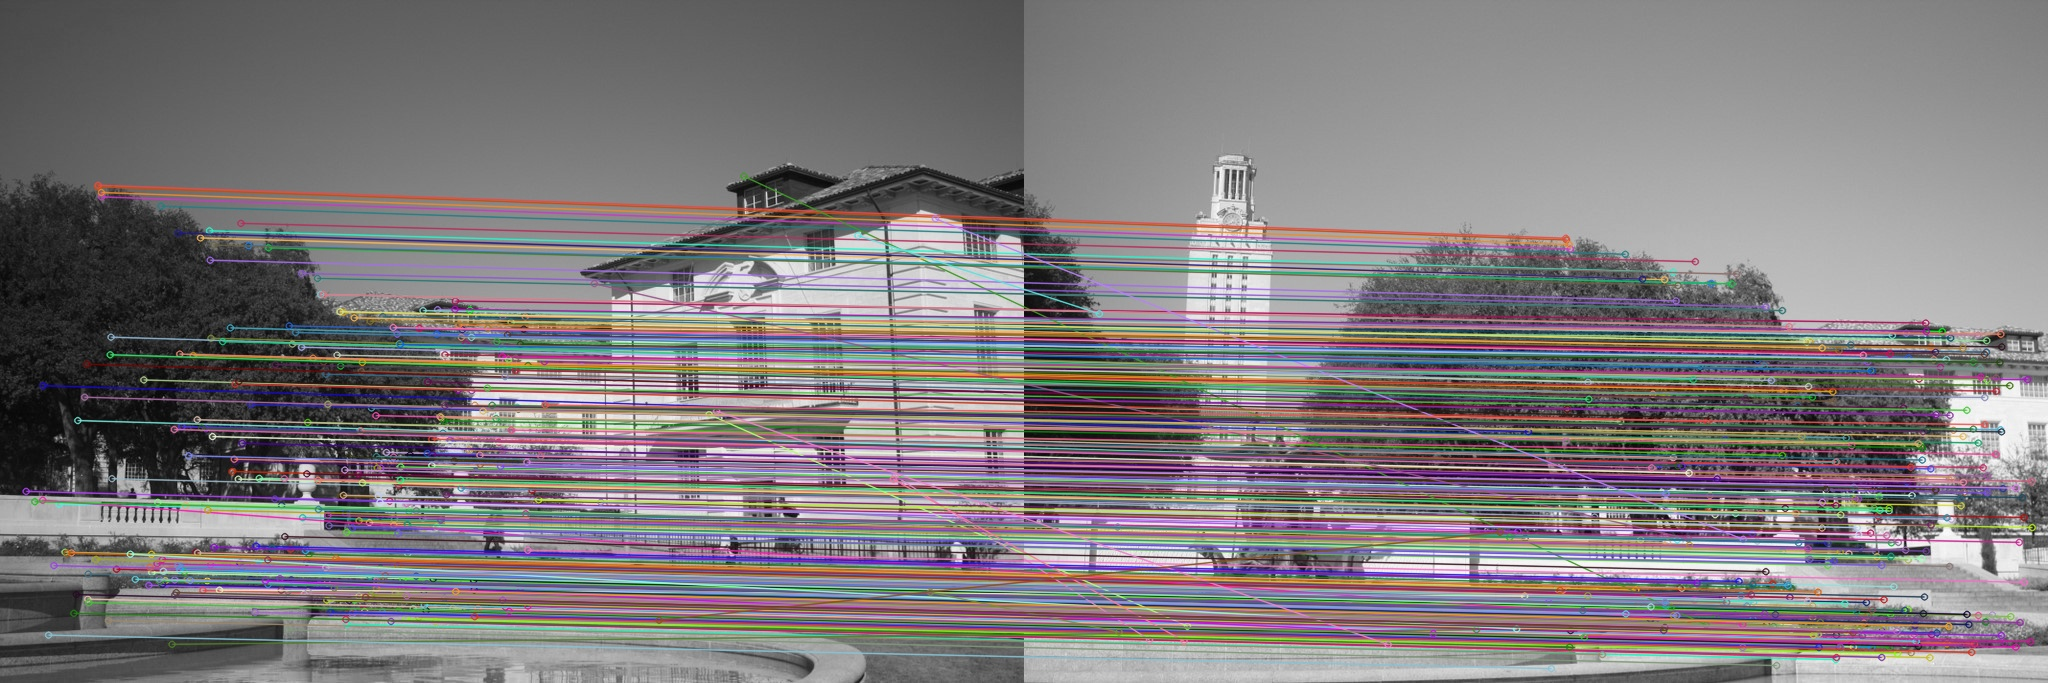
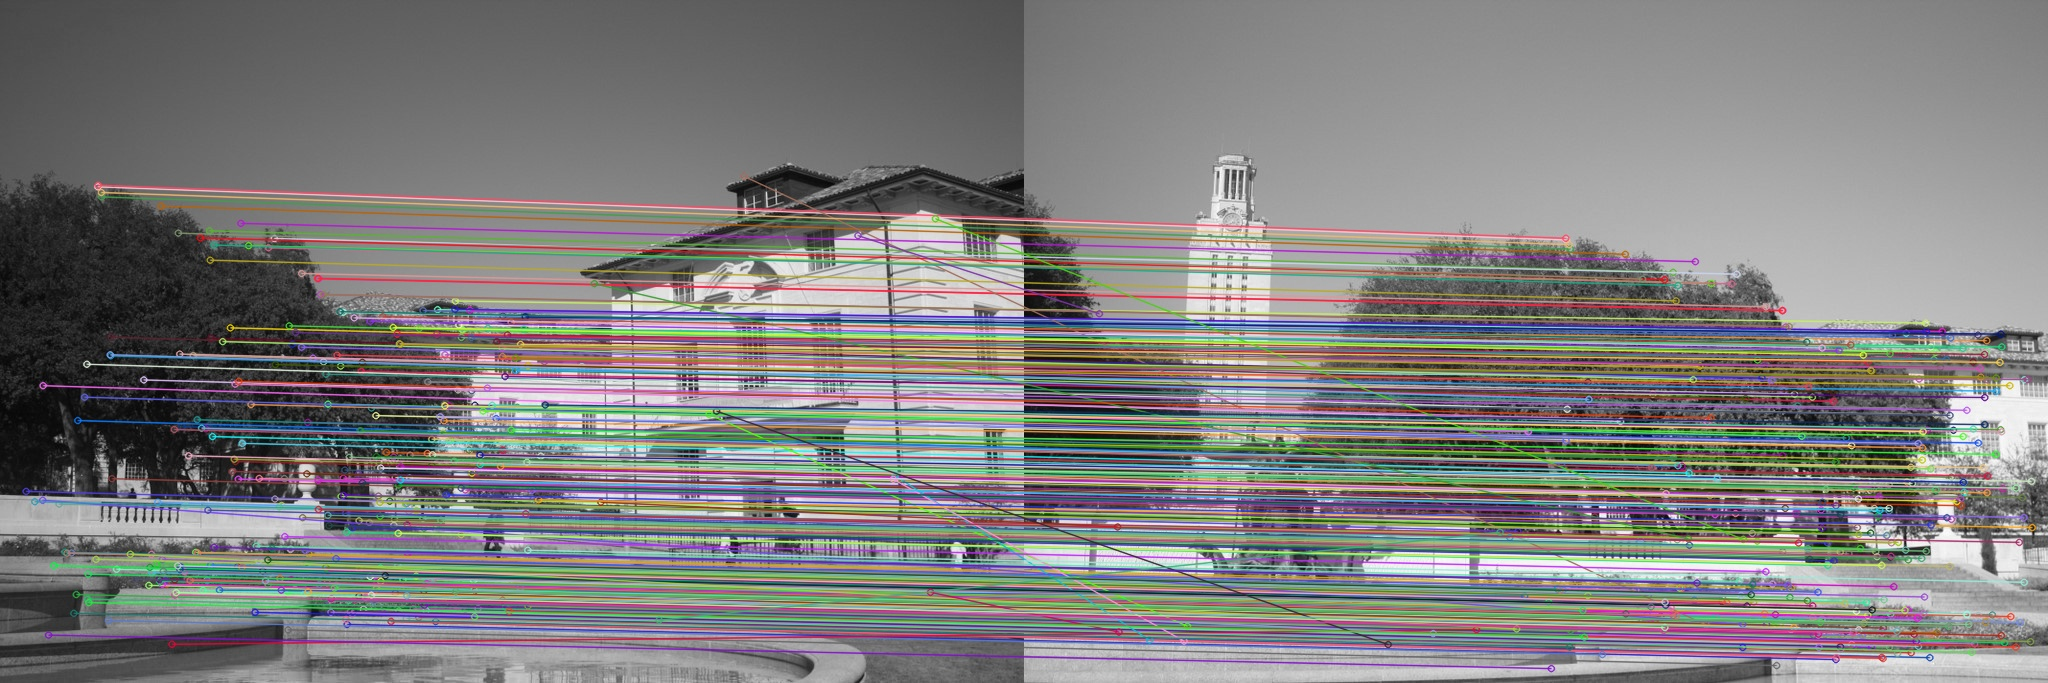
Item 6

diff --git a/trab-05/main.py b/trab-05/main.py
@@ -1,7 +1,7 @@
 import os
 
 import cv2
-from numpy import array, std
+from numpy import array, float32
 from sklearn.preprocessing import MinMaxScaler
 
 
@@ -61,7 +61,6 @@ Recebe uma imagem do cv2 e um método de detector como argumentos. Encontra desc
 
 
 def select_best_matches(matches, limiar=0.2):
-
     if len(matches) == 0:
         return []
 
@@ -125,6 +124,7 @@ Executing examples and generating report outputs.
             img_kp_des_b.append((img2, keypoints2, descriptors2))
 
     # ==============ITEM-3======================================================
+    # https://docs.opencv.org/3.4/dc/dc3/tutorial_py_matcher.html
     metodos_a_testar = ["sift", "surf", "brief", "orb"]
     distances = []
 
@@ -142,33 +142,124 @@ Executing examples and generating report outputs.
             matches = bf.match(descriptors1, descriptors2)
             matches = sorted(matches, key=lambda x: x.distance)
 
-            img = cv2.drawMatches(img_a, keypoints1, img_b, keypoints2, matches[:int(0.25*len(matches))],
+    # ==============ITEM-4======================================================
+    # https://docs.opencv.org/3.4/dc/dc3/tutorial_py_matcher.html
+    metodos_a_testar = ["sift", "surf", "brief", "orb"]
+    distances = []
+
+    for i, (img_a, img_b) in enumerate(zip(images_a, images_b)):
+        for metodo in metodos_a_testar:
+            img1, keypoints1, descriptors1 = keypoints_and_descriptors(img_a, method=metodo)
+            img2, keypoints2, descriptors2 = keypoints_and_descriptors(img_b, method=metodo)
+
+            if metodo == "sift" or metodo == "surf":
+                bf = cv2.BFMatcher(cv2.NORM_L2, crossCheck=True)
+
+            if metodo == "orb" or metodo == "brief":
+                bf = cv2.BFMatcher(cv2.NORM_HAMMING, crossCheck=True)
+
+            matches = bf.match(descriptors1, descriptors2)
+            matches = sorted(matches, key=lambda x: x.distance)
+
+            for single_match in matches[:int(0.25 * len(matches))]:
+                print("Foto:", i, ". Método:", metodo, ". Distância: ", single_match.distance)
+
+    # ==============ITEM-5======================================================
+    # https://docs.opencv.org/master/d1/de0/tutorial_py_feature_homography.html
+    metodos_a_testar = ["sift", "surf", "brief", "orb"]
+    distances = []
+
+    for i, (img_a, img_b) in enumerate(zip(images_a, images_b)):
+        for metodo in metodos_a_testar:
+            img1, keypoints1, descriptors1 = keypoints_and_descriptors(img_a, method=metodo)
+            img2, keypoints2, descriptors2 = keypoints_and_descriptors(img_b, method=metodo)
+
+            if metodo == "sift" or metodo == "surf":
+                bf = cv2.BFMatcher(cv2.NORM_L2, crossCheck=True)
+
+            if metodo == "orb" or metodo == "brief":
+                bf = cv2.BFMatcher(cv2.NORM_HAMMING, crossCheck=True)
+
+            matches = bf.match(descriptors1, descriptors2)
+            matches = sorted(matches, key=lambda x: x.distance)
+
+            MIN_MATCH_COUNT = 4
+
+            if len(matches) > MIN_MATCH_COUNT:
+                src_pts = float32([keypoints1[m.queryIdx].pt for m in matches]).reshape(-1, 1, 2)
+                dst_pts = float32([keypoints2[m.trainIdx].pt for m in matches]).reshape(-1, 1, 2)
+                M, mask = cv2.findHomography(src_pts, dst_pts, cv2.RANSAC, 5.0)
+                print("\nFoto:", i + 1, ". Método:", metodo, ". Matriz: \n", M)
+
+            else:
+                print("\nFoto:", i + 1, ". Método:", metodo, ". Não foram encontradas similaridades suficientes - {}/{}".format(len(matches), MIN_MATCH_COUNT))
+                matchesMask = None
+
+    # ==============ITEM-6======================================================
+    # https://docs.opencv.org/master/d1/de0/tutorial_py_feature_homography.html
+    metodos_a_testar = ["sift", "surf", "brief", "orb"]
+    distances = []
+
+    for i, (img_a, img_b) in enumerate(zip(images_a, images_b)):
+        for metodo in metodos_a_testar:
+            img1, keypoints1, descriptors1 = keypoints_and_descriptors(img_a, method=metodo)
+            img2, keypoints2, descriptors2 = keypoints_and_descriptors(img_b, method=metodo)
+
+            if metodo == "sift" or metodo == "surf":
+                bf = cv2.BFMatcher(cv2.NORM_L2, crossCheck=True)
+
+            if metodo == "orb" or metodo == "brief":
+                bf = cv2.BFMatcher(cv2.NORM_HAMMING, crossCheck=True)
+
+            matches = bf.match(descriptors1, descriptors2)
+            matches = sorted(matches, key=lambda x: x.distance)
+
+            MIN_MATCH_COUNT = 4
+
+            if len(matches) > MIN_MATCH_COUNT:
+                src_pts = float32([keypoints1[m.queryIdx].pt for m in matches]).reshape(-1, 1, 2)
+                dst_pts = float32([keypoints2[m.trainIdx].pt for m in matches]).reshape(-1, 1, 2)
+                M, mask = cv2.findHomography(src_pts, dst_pts, cv2.RANSAC, 5.0)
+
+                h1, w1, _ = img1.shape
+                h2, w2, _ = img2.shape
+                warp1 = cv2.warpPerspective(img1, M, (w1 + w2, h2))
+
+                cv2.imshow('Pontos de interesse ' + str(metodo), warp1)
+                cv2.waitKey(0)
+
+                print('warp 1 ', warp1.shape)
+                print('img1 ', img1.shape)
+                print('img2 ', img2.shape)
+
+                warp1[0:h2, 0:w2] = img2
+
+                cv2.imshow('Pontos de interesse ' + str(metodo), warp1)
+                cv2.waitKey(0)
+                cv2.destroyAllWindows()
+
+    # ==============ITEM-8======================================================
+    # https://docs.opencv.org/3.4/dc/dc3/tutorial_py_matcher.html
+    metodos_a_testar = ["sift", "surf", "brief", "orb"]
+    distances = []
+
+    for i, (img_a, img_b) in enumerate(zip(images_a, images_b)):
+        for metodo in metodos_a_testar:
+            img1, keypoints1, descriptors1 = keypoints_and_descriptors(img_a, method=metodo)
+            img2, keypoints2, descriptors2 = keypoints_and_descriptors(img_b, method=metodo)
+
+            if metodo == "sift" or metodo == "surf":
+                bf = cv2.BFMatcher(cv2.NORM_L2, crossCheck=True)
+
+            if metodo == "orb" or metodo == "brief":
+                bf = cv2.BFMatcher(cv2.NORM_HAMMING, crossCheck=True)
+
+            matches = bf.match(descriptors1, descriptors2)
+            matches = sorted(matches, key=lambda x: x.distance)
+
+            img = cv2.drawMatches(img_a, keypoints1, img_b, keypoints2, matches[:int(0.25 * len(matches))],
                                   None, flags=cv2.DrawMatchesFlags_NOT_DRAW_SINGLE_POINTS)
 
             # cv2.imshow('Distancias ' + str(metodo), img)
             # cv2.waitKey(0)
-            cv2.imwrite("output/item3_foto" + str(i + 1) + str(metodo) + ".jpg", img)
-
-            # if metodo == "sift":
-            #     matches = select_best_matches(matches, limiar=0.2)
-            #
-            # if metodo == "brief":
-            #     matches = select_best_matches(matches, limiar=0.2)
-            #
-            # if metodo == "orb":
-            #     matches = select_best_matches(matches, limiar=0.2)
-            #
-            # if metodo == "surf":
-            #     matches = select_best_matches(matches, limiar=0.2)
-
-            # if metodo == "sift":
-            #     matches = select_best_matches(matches, limiar=20)
-            #
-            # if metodo == "brief":
-            #     matches = select_best_matches(matches, limiar=15)
-            #
-            # if metodo == "orb":
-            #     matches = select_best_matches(matches, limiar=35)
-            #
-            # if metodo == "surf":
-            #     matches = select_best_matches(matches, limiar=0.1)
+            cv2.imwrite("output/item8_foto" + str(i + 1) + str(metodo) + ".jpg", img)
